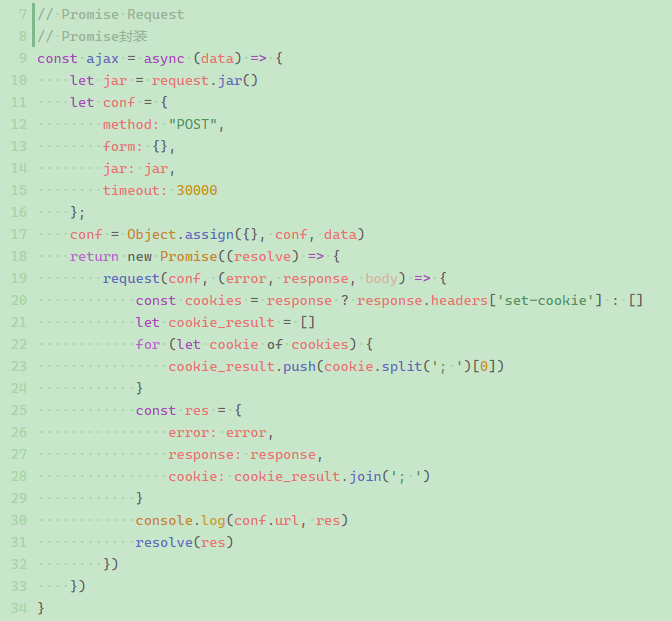
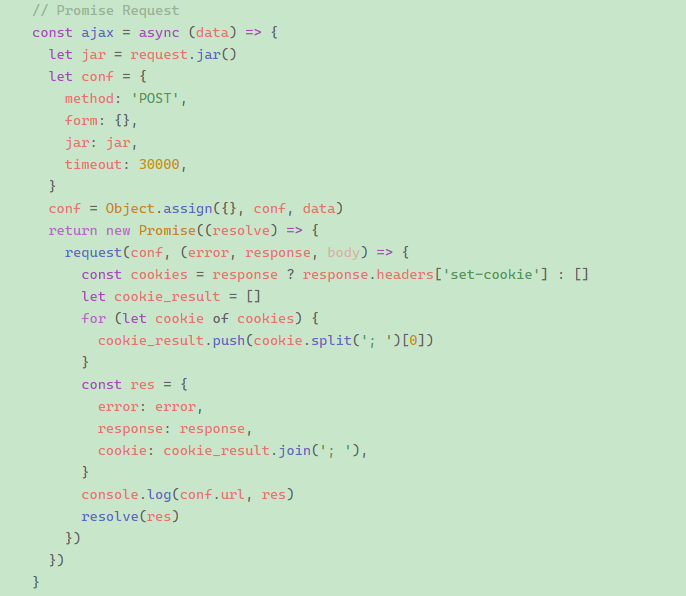
v0.1.0

diff --git a/README.md b/README.md
@@ -8,47 +8,25 @@
 ## 1. Screenshots
 ![Screenshots](https://raw.githubusercontent.com/yezige/vscode-theme-green-eyecare/master/screenshots/preview.png)
 
-## 2. Font
+_The font in the picture is Cascadia Code_
 
-### 2.1. My merged font: **Inconsolata + Yue Yuan**
+## 2. Install
 
-Installation: [**LZ YueYuan Inconsolata**](https://raw.githubusercontent.com/yezige/vscode-theme-green-eyecare/master/fonts/LZ-YueYuan-Inconsolata.otf)
+### 2.1. Install using GUI
+1. Enter extension panel or press **Ctrl+Shift+X**
+2. Search **Green Eyecare**
+3. Click **install**
 
-- Set font of VSCode
-    
-    If you download and install the font in your system, you can add this option to have a custom font:
+### 2.2. Install using Command Palette
+1. Install using Command Palette
+2. Go to **View -> Command Palette** or press **Ctrl+Shift+P**
+3. Then enter **Install Extension**
+4. Write **Green Eyecare**
+5. Select it or press Enter to install
 
-    ```json
-    {
-        "editor.fontFamily": "LZ YueYuan Inconsolata"
-    }
-    ```
+## 3. Custom font
 
-    OR
-
-    ![Custom Font](https://raw.githubusercontent.com/yezige/vscode-theme-green-eyecare/master/screenshots/custom-font.png)
-
-- Set line height of VSCode
-    ```json
-    {
-        "editor.lineHeight": 22
-    }
-    ```
-    OR
-
-    ![Custom Line Height](https://raw.githubusercontent.com/yezige/vscode-theme-green-eyecare/master/screenshots/custom-lineheight.png)
-
-- Set font size of VSCode (Only fine fonts are recommended)
-    ```json
-    {
-        "editor.fontSize": 15
-    }
-    ```
-    OR
-
-    ![Custom Line Size](https://raw.githubusercontent.com/yezige/vscode-theme-green-eyecare/master/screenshots/custom-fontsize.png)
-
-### 2.2. Another recommended Microsoft font: **Cascadia Code**
+### 3.1. Microsoft font (recommended): **Cascadia Code**
 Installation: [**Cascadia Code**](https://github.com/microsoft/cascadia-code)
 
 Screenshots:
@@ -58,7 +36,11 @@ Screenshots:
 - Set font of VSCode
 
     If you download and install the font in your system, you can add this option to have a custom font:
-
+    
+    1. Go to **View -> Command Palette** or press **Ctrl+Shift+P**
+    2. Then enter **Open Settings(JSON)**
+    3. In the opened file, modify or add the value of `editor.fontFamily` to `Cascadia Code`
+    
     ```json
     {
         "editor.fontFamily": "Cascadia Code"
@@ -73,13 +55,47 @@ Screenshots:
     ```
 - No need to set font size
 
-## 3. What's new?
+### 3.2. My merged font: **Inconsolata + Yue Yuan**
+
+Installation: [**LZ YueYuan Inconsolata**](https://raw.githubusercontent.com/yezige/vscode-theme-green-eyecare/master/fonts/LZ-YueYuan-Inconsolata.otf)
+
+Screenshots:
+
+![Screenshots](https://raw.githubusercontent.com/yezige/vscode-theme-green-eyecare/master/screenshots/preview-LZ-YueYuan-Inconsolata.png)
+
+- Set font of VSCode
+    
+    If you download and install the font in your system, you can add this option to have a custom font:
+    
+    1. Go to **View -> Command Palette** or press **Ctrl+Shift+P**
+    1. Then enter **Open Settings(JSON)**
+    2. In the opened file, modify or add the value of `editor.fontFamily` to `LZ YueYuan Inconsolata`
+    
+    ```json
+    {
+        "editor.fontFamily": "LZ YueYuan Inconsolata"
+    }
+    ```
+- Set line height of VSCode
+    ```json
+    {
+        "editor.lineHeight": 22
+    }
+    ```
+
+- Set font size of VSCode (Only fine fonts are recommended)
+    ```json
+    {
+        "editor.fontSize": 15
+    }
+    ```
+
+## 4. What's new?
 
 Click here to go to the [Changelog](https://github.com/yezige/vscode-theme-green-eyecare/blob/master/CHANGELOG.md)
 
-## 4. See my blog for details
+## 5. See my blog for details
 [liu.app](https://www.liu.app/2018/08/29/VSCode/%E4%BF%AE%E6%94%B9VSCode%E7%9A%84%E4%B8%BB%E9%A2%98%E9%A2%9C%E8%89%B2%E4%B8%BA%E6%8A%A4%E7%9C%BC%E7%BB%BF/)
 
 
-
-## Enjoy 🎉🎉🎉
+## 6. Enjoy 🎉🎉🎉

diff --git a/CHANGELOG.md b/CHANGELOG.md
@@ -4,8 +4,13 @@ All notable changes to this project will be documented in this file.
 The format is based on [Keep a Changelog](https://keepachangelog.com/en/1.0.0/),
 and this project adheres to [Semantic Versioning](https://semver.org/spec/v2.0.0.html).
 
-## [0.0.8] - 2020-07-21
+## [0.1.0] - 2020-09-08
 **Release stable version** 🎉🎉🎉
+
+### Update
+- README
+
+## [0.0.8] - 2020-07-21
 
 ### Fixed
 - Github Action
@@ -70,3 +75,4 @@ and this project adheres to [Semantic Versioning](https://semver.org/spec/v2.0.0
 [0.0.6]: https://github.com/yezige/vscode-theme-green-eyecare/releases/tag/v0.0.6
 [0.0.7]: https://github.com/yezige/vscode-theme-green-eyecare/releases/tag/v0.0.7
 [0.0.8]: https://github.com/yezige/vscode-theme-green-eyecare/releases/tag/v0.0.8
+[0.1.0]: https://github.com/yezige/vscode-theme-green-eyecare/releases/tag/v0.1.0
